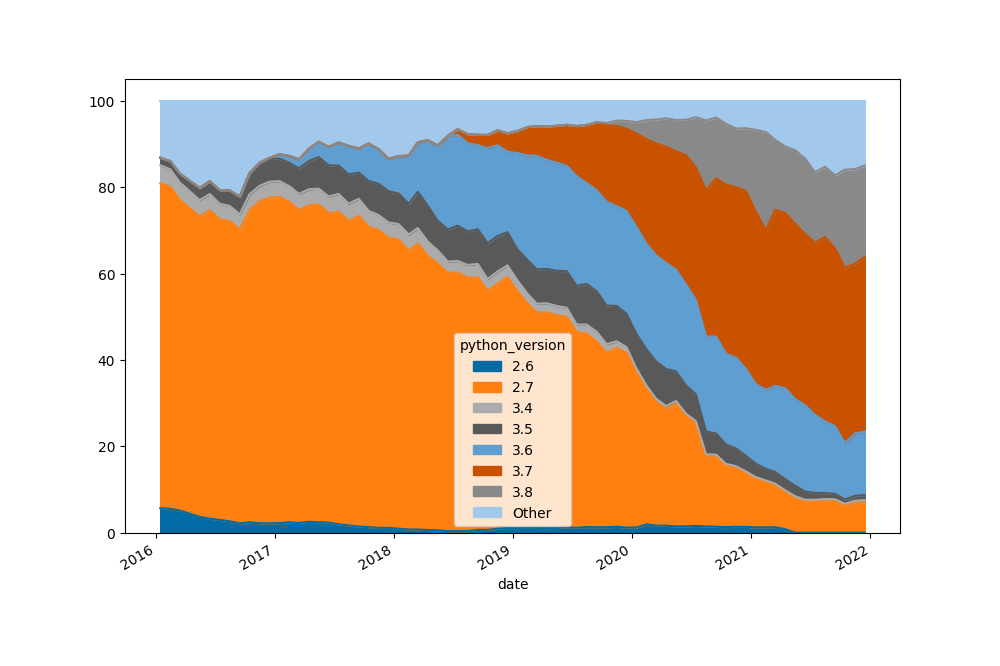
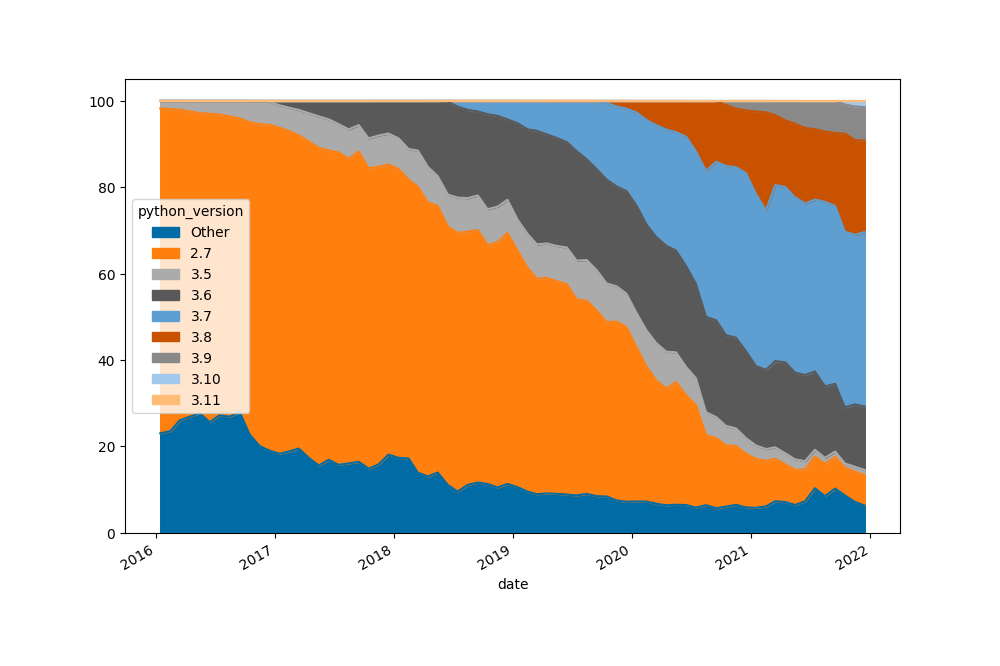
pct graph: Sort areas by Python version.

diff --git a/python-versions.py b/python-versions.py
@@ -140,7 +140,20 @@ def plot_main():
     plt.savefig("python-versions.png")
 
 
+HIDE = {"1.17", "2.4", "2.5", "2.6", "3.2", "3.3", "3.4"}
+
+
 def plot_pct():
+    def by_version(version_string):
+        try:
+            minor, major = version_string.split(".")
+            return float(minor), float(major)
+        except ValueError:
+            return 0, 0
+
+    def by_versions(version_strings):
+        return version_strings.map(by_version)
+
     db = DB()
     versions = pd.DataFrame(
         db.fetch_python_version(),
@@ -157,8 +170,9 @@ def plot_pct():
     versions["date"] = pd.to_datetime(versions.start_date) + timedelta(days=14)
     versions.set_index(["python_version", "date"], inplace=True)
     to_plot = versions.pct.unstack(0, fill_value=0)
+    to_plot.sort_values(by="python_version", axis=1, inplace=True, key=by_versions)
     for version in to_plot:
-        if to_plot[version].sum() < to_plot.sum().sum() / 75:
+        if version in HIDE:
             to_plot["Other"] += to_plot[version]
             del to_plot[version]
     plt.style.use("tableau-colorblind10")
